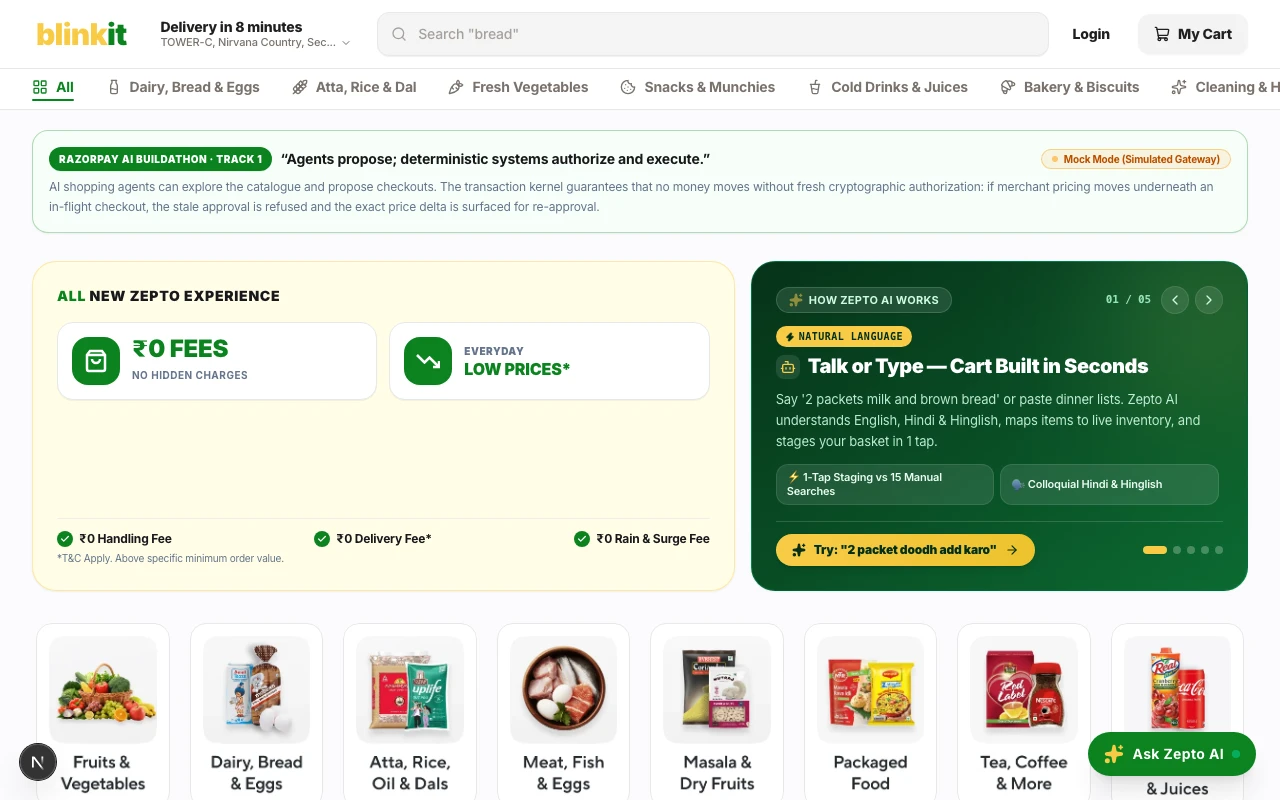
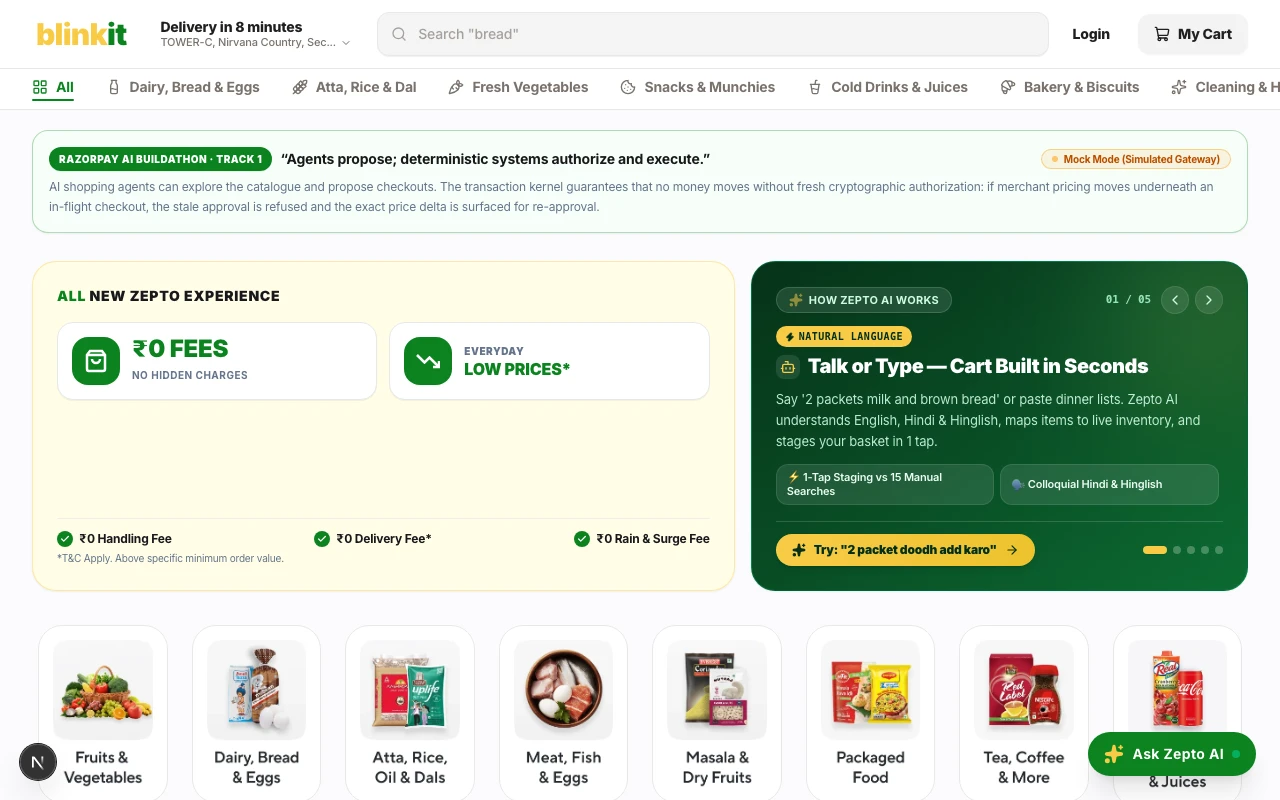
feat(storefront): make category and items boxes rounded

diff --git a/apps/buyer-web/src/features/storefront/category-view.tsx b/apps/buyer-web/src/features/storefront/category-view.tsx
@@ -263,7 +263,7 @@ export function CategoryView({
       </nav>
 
       {/* Blinkit Split Layout: Compact Subcategory Sidebar (Left) + Product Grid (Right) */}
-      <div className="flex flex-col md:flex-row gap-0 rounded-2xl border border-[#e8e8e8] bg-white overflow-hidden shadow-2xs">
+      <div className="flex flex-col md:flex-row gap-0 rounded-3xl border border-[#e8e8e8] bg-white overflow-hidden shadow-2xs">
         {/* Left Subcategory Sidebar (Blinkit Vertical Pill Layout) */}
         <aside className="w-full md:w-[92px] lg:w-[100px] shrink-0 border-b md:border-b-0 md:border-r border-[#e8e8e8] py-2 bg-white flex md:flex-col overflow-x-auto md:overflow-y-auto scrollbar-none items-center gap-1">
           <nav aria-label="Subcategories" className="flex md:flex-col items-center w-full gap-1">
@@ -288,7 +288,7 @@ export function CategoryView({
                       : "hover:bg-[#fafafa]"
                   }`}
                 >
-                  <div className="w-11 h-11 sm:w-12 sm:h-12 rounded-xl bg-[#f8f8f8] flex items-center justify-center p-1 overflow-hidden border border-stone-100 group-hover:scale-105 transition-transform">
+                  <div className="w-12 h-12 sm:w-13 sm:h-13 rounded-2xl bg-[#f8f8f8] flex items-center justify-center p-1.5 overflow-hidden border border-stone-100 group-hover:scale-105 transition-transform shadow-2xs">
                     {subImg ? (
                       <SafeImage
                         src={subImg}
@@ -427,7 +427,7 @@ export function CategoryView({
                       if ((e.target as HTMLElement).closest('button, input, [role="group"]')) return;
                       router.push(`/products/${encodeURIComponent(hit.sku)}`);
                     }}
-                    className={`group flex flex-col justify-between rounded-2xl border bg-white p-2.5 sm:p-3 transition-all duration-150 relative overflow-hidden cursor-pointer ${
+                    className={`group flex flex-col justify-between rounded-3xl border bg-white p-3 sm:p-3.5 transition-all duration-150 relative overflow-hidden cursor-pointer shadow-xs hover:shadow-md ${
                       isUnavailable
                         ? "border-stone-200 bg-stone-50/70 opacity-75"
                         : "border-[#e8e8e8] hover:shadow-md hover:border-[#0c831f]/40"
@@ -437,7 +437,7 @@ export function CategoryView({
                       {/* Top Badges: Discount badge in top-left matching Blinkit */}
                       <div className="flex items-start justify-between relative z-10 -mt-1.5 -mx-1.5 mb-1">
                         {percentOff > 0 ? (
-                          <span className="bg-[#256fef] text-white text-[9px] font-black px-1.5 py-0.5 rounded-br-md shadow-2xs tracking-wide">
+                          <span className="bg-[#256fef] text-white text-[9px] font-black px-1.5 py-0.5 rounded-br-xl shadow-2xs tracking-wide">
                             {percentOff}% OFF
                           </span>
                         ) : (
@@ -446,7 +446,7 @@ export function CategoryView({
                       </div>
 
                       {/* Product Image Stage (using authentic downloaded images) */}
-                      <div className="relative aspect-square w-full rounded-xl bg-white flex items-center justify-center p-1.5 mb-1 overflow-hidden">
+                      <div className="relative aspect-square w-full rounded-2xl bg-[#f8f8f8] flex items-center justify-center p-2 mb-1.5 overflow-hidden border border-stone-100/80">
                         <Link
                           href={`/products/${encodeURIComponent(hit.sku)}`}
                           className="block w-full h-full focus:outline-none focus:ring-2 focus:ring-[#0c831f] rounded-lg"
@@ -462,7 +462,7 @@ export function CategoryView({
                       </div>
 
                       {/* Delivery Time Badge: 8 MINS with clock icon */}
-                      <div className="inline-flex items-center gap-1 text-[9px] font-extrabold text-[#333] bg-[#f5f5f5] px-1.5 py-0.5 rounded w-fit">
+                      <div className="inline-flex items-center gap-1 text-[9px] font-extrabold text-[#333] bg-[#f5f5f5] px-2 py-0.5 rounded-full w-fit">
                         <Clock className="h-2.5 w-2.5 text-[#333]" />
                         <span>8 MINS</span>
                       </div>
@@ -477,7 +477,7 @@ export function CategoryView({
                         <span className="text-[11px] text-[#666] font-medium">
                           {hit.unit_label}
                         </span>
-                        <span className="font-mono text-[9px] font-bold text-[#0c831f] bg-[#eefaf0] px-1.5 py-0.2 rounded border border-[#0c831f]/20">
+                        <span className="font-mono text-[9px] font-bold text-[#0c831f] bg-[#eefaf0] px-2 py-0.5 rounded-full border border-[#0c831f]/20">
                           SKU: {hit.sku}
                         </span>
                       </div>
@@ -506,7 +506,7 @@ export function CategoryView({
                       {hit.is_available ? (
                         currentQty > 0 ? (
                           <div
-                            className="h-8 rounded-lg bg-[#0c831f] text-white flex items-center justify-between px-1.5 shadow-xs font-bold text-xs min-w-[66px]"
+                            className="h-8.5 rounded-xl bg-[#0c831f] text-white flex items-center justify-between px-2 shadow-xs font-bold text-xs min-w-[70px]"
                             role="group"
                             aria-label={`Quantity controls for ${hit.display_name}`}
                           >
@@ -537,7 +537,7 @@ export function CategoryView({
                             type="button"
                             disabled={isItemBusy}
                             onClick={() => void addOne(hit.sku, hit.display_name)}
-                            className="min-w-[62px] min-h-[32px] border border-[#0c831f] text-[#0c831f] bg-[#f7fff9] hover:bg-[#0c831f] hover:text-white rounded-lg px-3 py-1 font-extrabold text-xs tracking-wider transition-colors active:scale-95 cursor-pointer disabled:opacity-50"
+                            className="min-w-[62px] min-h-[32px] border border-[#0c831f] text-[#0c831f] bg-[#f7fff9] hover:bg-[#0c831f] hover:text-white rounded-xl px-3.5 py-1.5 font-extrabold text-xs tracking-wider transition-colors active:scale-95 cursor-pointer disabled:opacity-50 shadow-2xs"
                             aria-label={`Add ${hit.display_name} to basket`}
                           >
                             ADD

diff --git a/apps/buyer-web/src/features/storefront/search-panel.tsx b/apps/buyer-web/src/features/storefront/search-panel.tsx
@@ -413,7 +413,7 @@ export function SearchPanel({
                           if ((e.target as HTMLElement).closest('button, input, [role="group"]')) return;
                           router.push(`/products/${encodeURIComponent(hit.sku)}`);
                         }}
-                        className={`group flex flex-col justify-between rounded-3xl border p-3 sm:p-3.5 transition-all duration-200 shadow-2xs cursor-pointer ${
+                        className={`group flex flex-col justify-between rounded-3xl border p-3.5 sm:p-4 transition-all duration-200 shadow-xs hover:shadow-md cursor-pointer ${
                           isUnavailable
                             ? "border-line bg-surface-raised/70 opacity-75"
                             : "border-line bg-surface hover:shadow-md hover:border-[#0c831f]/40"
@@ -432,7 +432,7 @@ export function SearchPanel({
 
                           {/* SKU & Availability Metadata */}
                           <div className="flex items-center justify-between gap-1 pt-1">
-                            <span className="font-mono text-[9px] font-bold text-[#0c831f] bg-[#eefaf0] px-1.5 py-0.5 rounded border border-[#0c831f]/20 tracking-tight">
+                            <span className="font-mono text-[9px] font-bold text-[#0c831f] bg-[#eefaf0] px-2 py-0.5 rounded-full border border-[#0c831f]/20 tracking-tight">
                               SKU: {hit.sku}
                             </span>
                             <AvailabilityBadge product={hit} />
@@ -487,7 +487,7 @@ export function SearchPanel({
                               currentQty > 0 ? (
                                 /* In-place Stepper when item is in basket */
                                 <div
-                                  className="h-8 rounded-lg bg-[#0c831f] text-white flex items-center justify-between px-1.5 shadow-xs font-bold text-xs min-w-[66px]"
+                                  className="h-8.5 rounded-xl bg-[#0c831f] text-white flex items-center justify-between px-2 shadow-xs font-bold text-xs min-w-[70px]"
                                   role="group"
                                   aria-label={`Quantity controls for ${hit.display_name}`}
                                 >
@@ -523,7 +523,7 @@ export function SearchPanel({
                                   type="button"
                                   disabled={isItemBusy}
                                   onClick={() => void addOne(hit.sku, hit.display_name)}
-                                  className="min-w-[62px] min-h-[36px] border border-[#0c831f] text-[#0c831f] bg-[#f7fff9] hover:bg-[#0c831f] hover:text-white rounded-lg px-3 py-1 font-bold text-xs tracking-wider transition-colors active:scale-95 cursor-pointer disabled:opacity-50 flex items-center gap-1 shadow-xs focus-visible:ring-2 focus-visible:ring-[#0c831f]"
+                                  className="min-w-[62px] min-h-[36px] border border-[#0c831f] text-[#0c831f] bg-[#f7fff9] hover:bg-[#0c831f] hover:text-white rounded-xl px-3.5 py-1.5 font-bold text-xs tracking-wider transition-colors active:scale-95 cursor-pointer disabled:opacity-50 flex items-center gap-1 shadow-xs focus-visible:ring-2 focus-visible:ring-[#0c831f]"
                                   aria-label={`Add ${hit.display_name} to basket`}
                                 >
                                   <span>ADD</span>

diff --git a/apps/buyer-web/src/features/storefront/category-grid.tsx b/apps/buyer-web/src/features/storefront/category-grid.tsx
@@ -71,12 +71,12 @@ export function CategoryGrid({
             key={cat.id}
             type="button"
             onClick={() => onSelectCategory(cat.filterKey)}
-            className="group flex flex-col items-center text-center focus:outline-none focus:ring-2 focus:ring-[#0c831f] rounded-2xl p-1 transition cursor-pointer"
+            className="group flex flex-col items-center text-center focus:outline-none focus:ring-2 focus:ring-[#0c831f] rounded-3xl p-1.5 transition cursor-pointer"
             aria-label={`Browse ${cat.name.replace("\n", " ")}`}
           >
             {/* Square Container matching Zepto design */}
             <div
-              className={`relative aspect-square w-full rounded-2xl flex items-center justify-center p-2 transition-all duration-200 group-hover:scale-105 group-hover:shadow-md ${
+              className={`relative aspect-square w-full rounded-3xl flex items-center justify-center p-2.5 transition-all duration-200 group-hover:scale-105 group-hover:shadow-md ${
                 isSelected
                   ? "bg-[#f7fff9] border-2 border-[#0c831f] shadow-sm"
                   : "bg-category-card border border-category-card-border hover:border-line hover:bg-surface"
